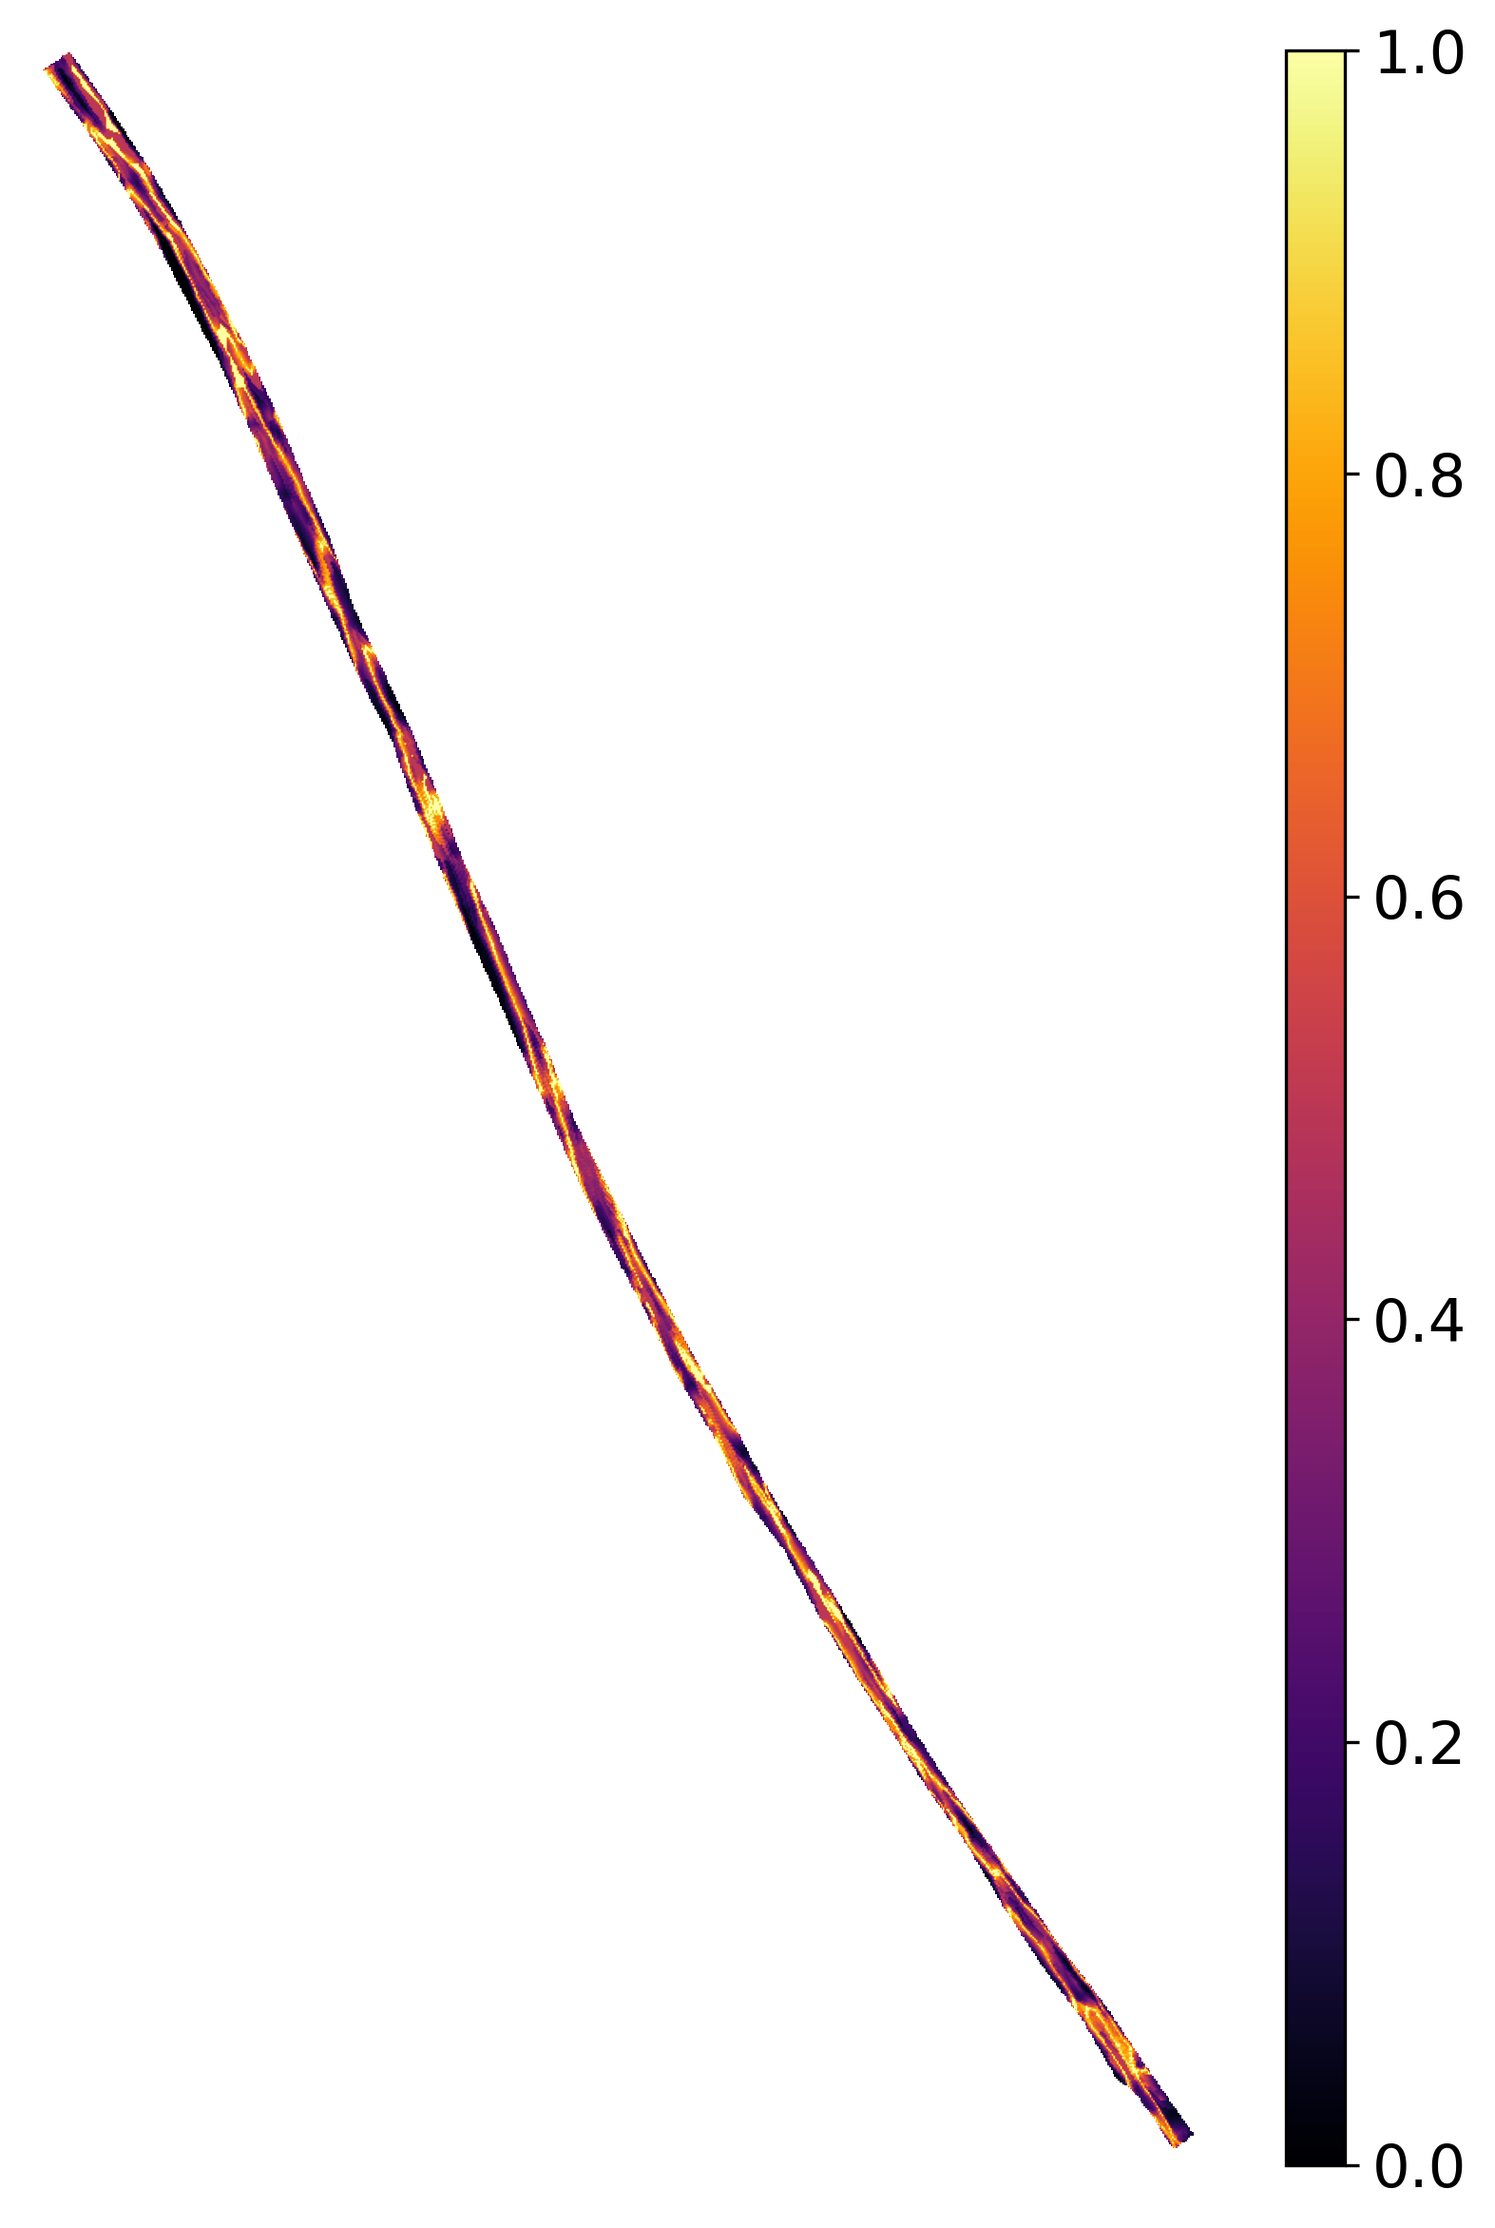
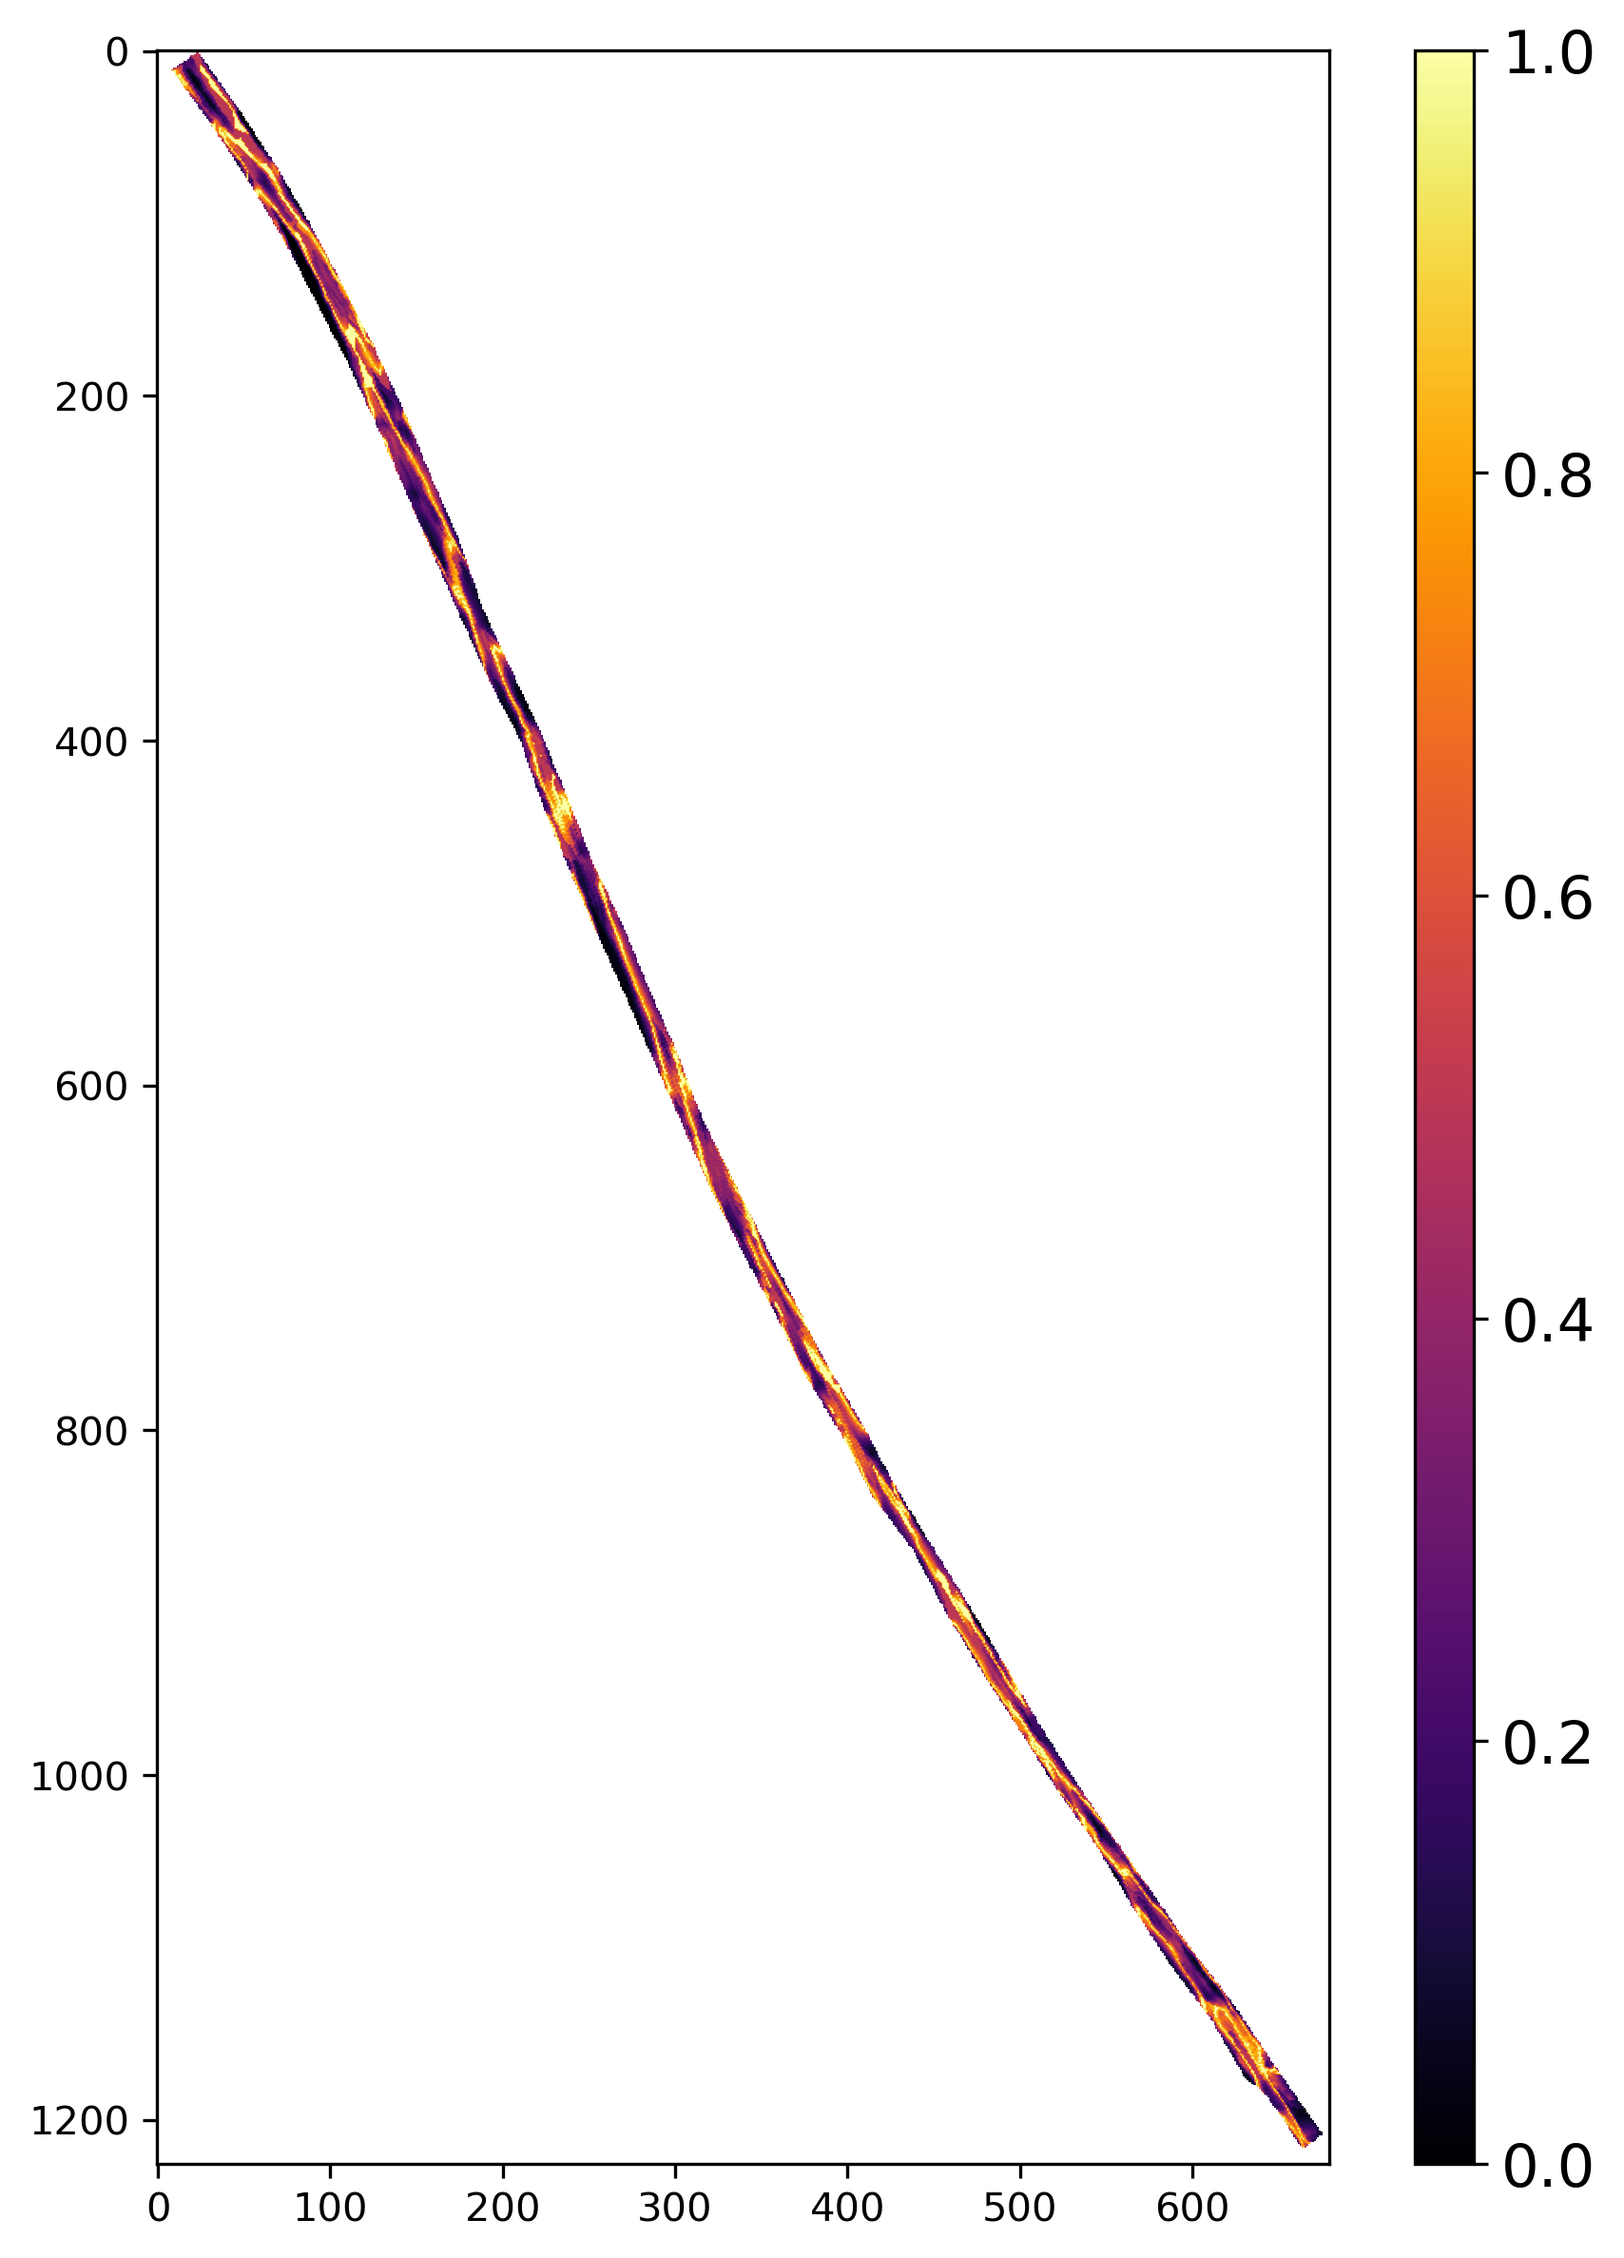
fuzzykappa complete rasters

diff --git a/plotter.py b/plotter.py
@@ -120,10 +120,10 @@ class RasterDataPlotter:
         #norm = matplotlib.colors.BoundaryNorm(bounds, cmap.N)
         im1 = ax1.imshow(raster_np, cmap=cmap, vmax=vmax, vmin=vmin)
         fig1.tight_layout()
-        plt.setp(ax1, xticks=[], yticks=[])
+        plt.setp(ax1)
         cbar = ep.colorbar(im1, pad=0.3, size='5%')
         cbar.ax.tick_params(labelsize=15)
-        ax1.axis('off')
+        #ax1.axis('off')
         fig1.savefig(output_file, dpi=300, bbox_inches='tight')
 
     def plot_categorical_raster(self, output_file, labels, cmap):
